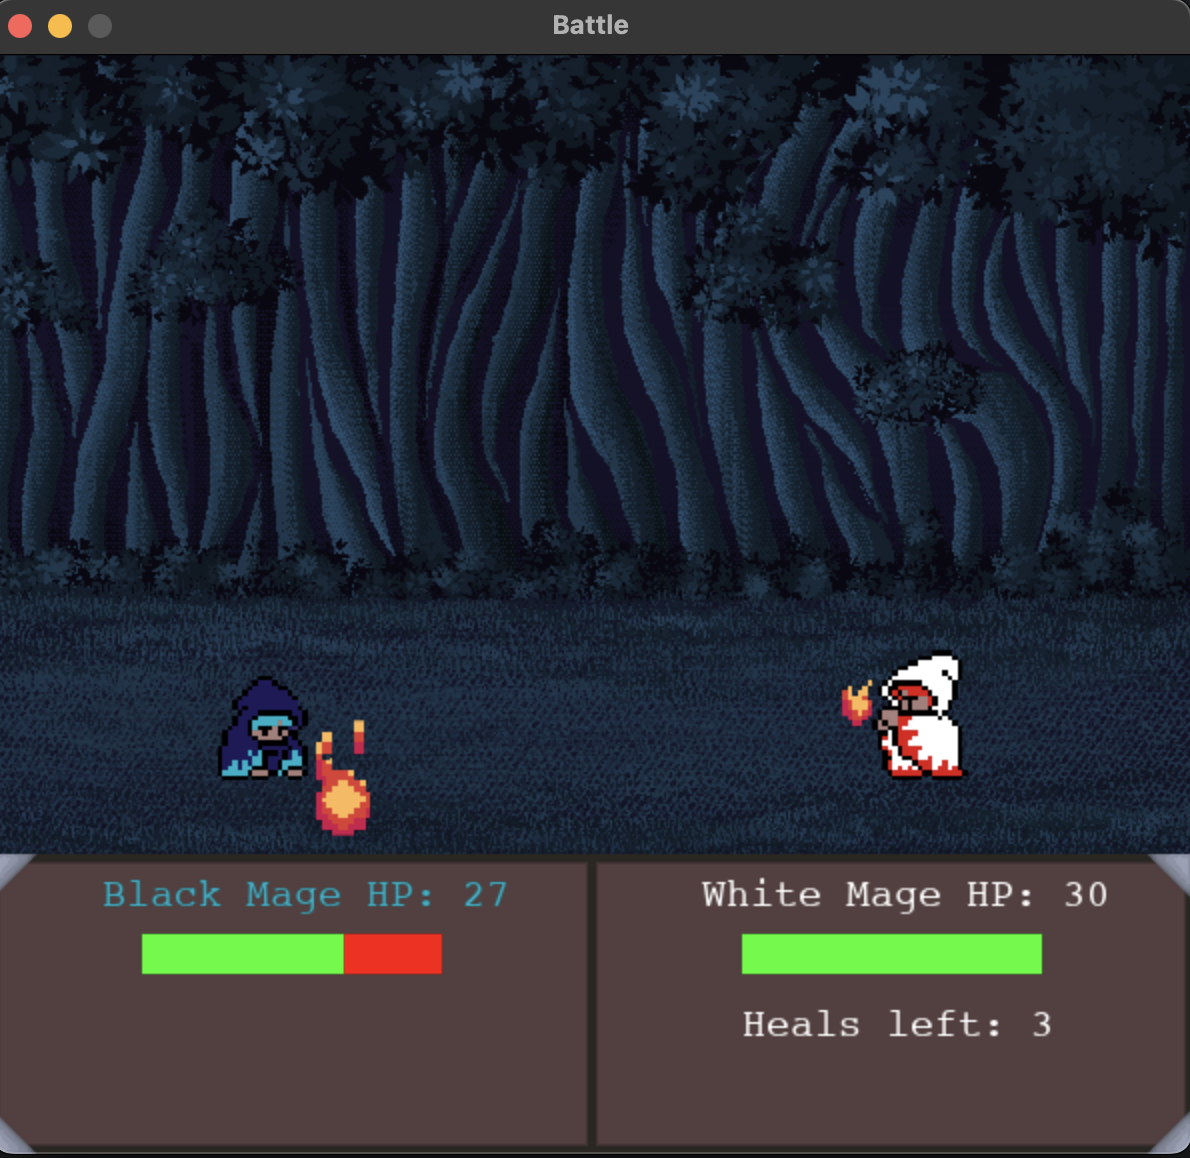
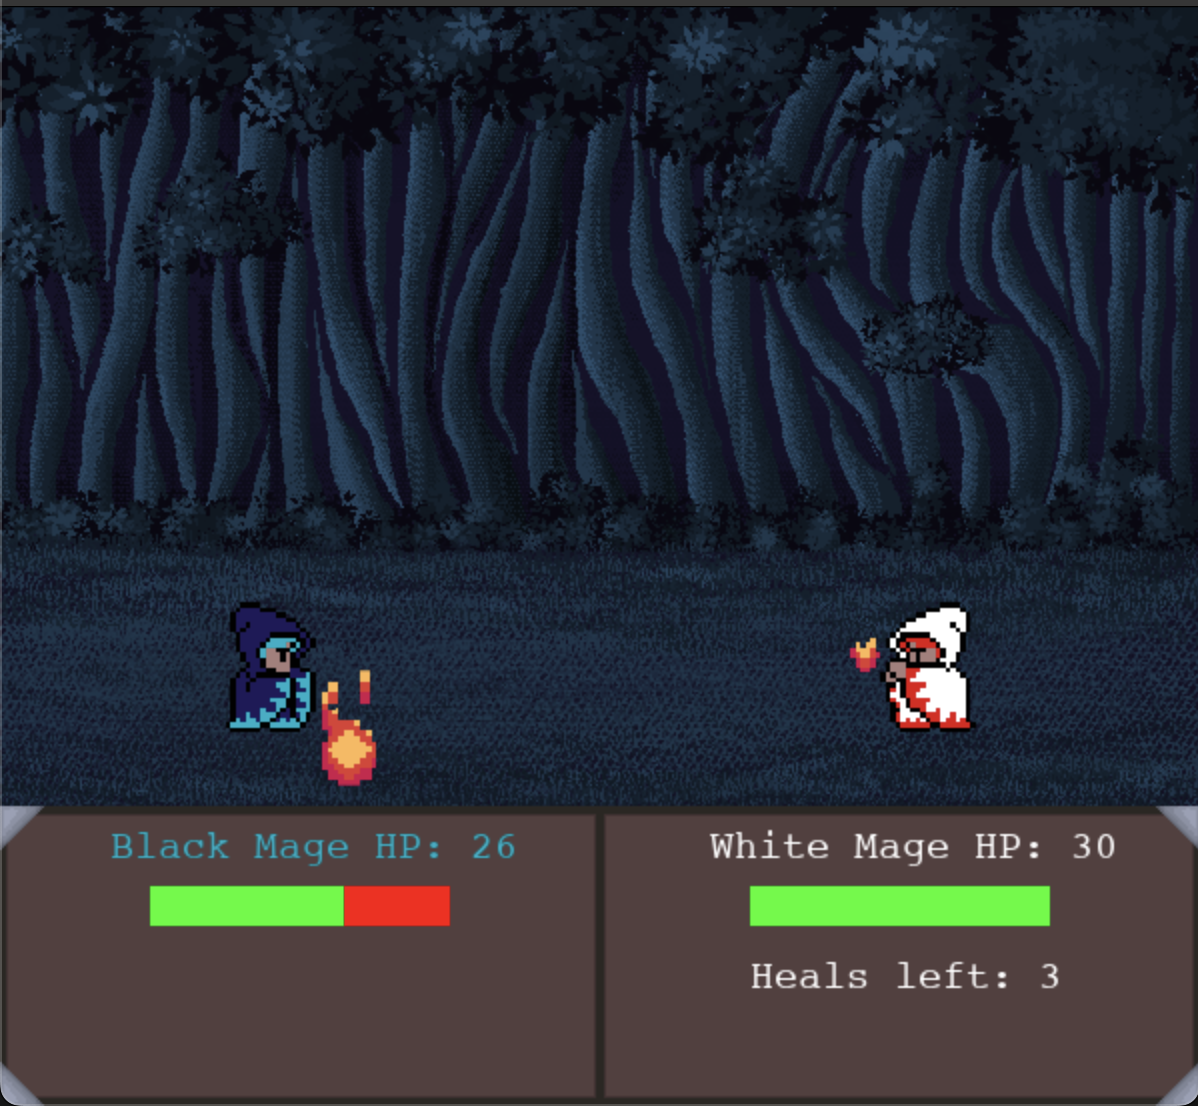
updated sprites, healspell and screensots

diff --git a/battle.py b/battle.py
@@ -72,7 +72,7 @@ class Mage():
 
         #load idle images
         temp_list = []
-        for i in range(8):
+        for i in range(1):
             img = pygame.image.load(f'assets/sprites/{self.name}/idle/{i}.png')
             img = pygame.transform.scale(img, (img.get_width() * 2.5, img.get_height() * 2.5))
             temp_list.append(img)
@@ -96,7 +96,7 @@ class Mage():
 
         # load hurt images
         temp_list = []
-        for i in range(8):
+        for i in range(1):
             img = pygame.image.load(f'assets/sprites/{self.name}/hurt/{i}.png')
             img = pygame.transform.scale(img, (img.get_width() * 2.5, img.get_height() * 2.5))
             temp_list.append(img)
